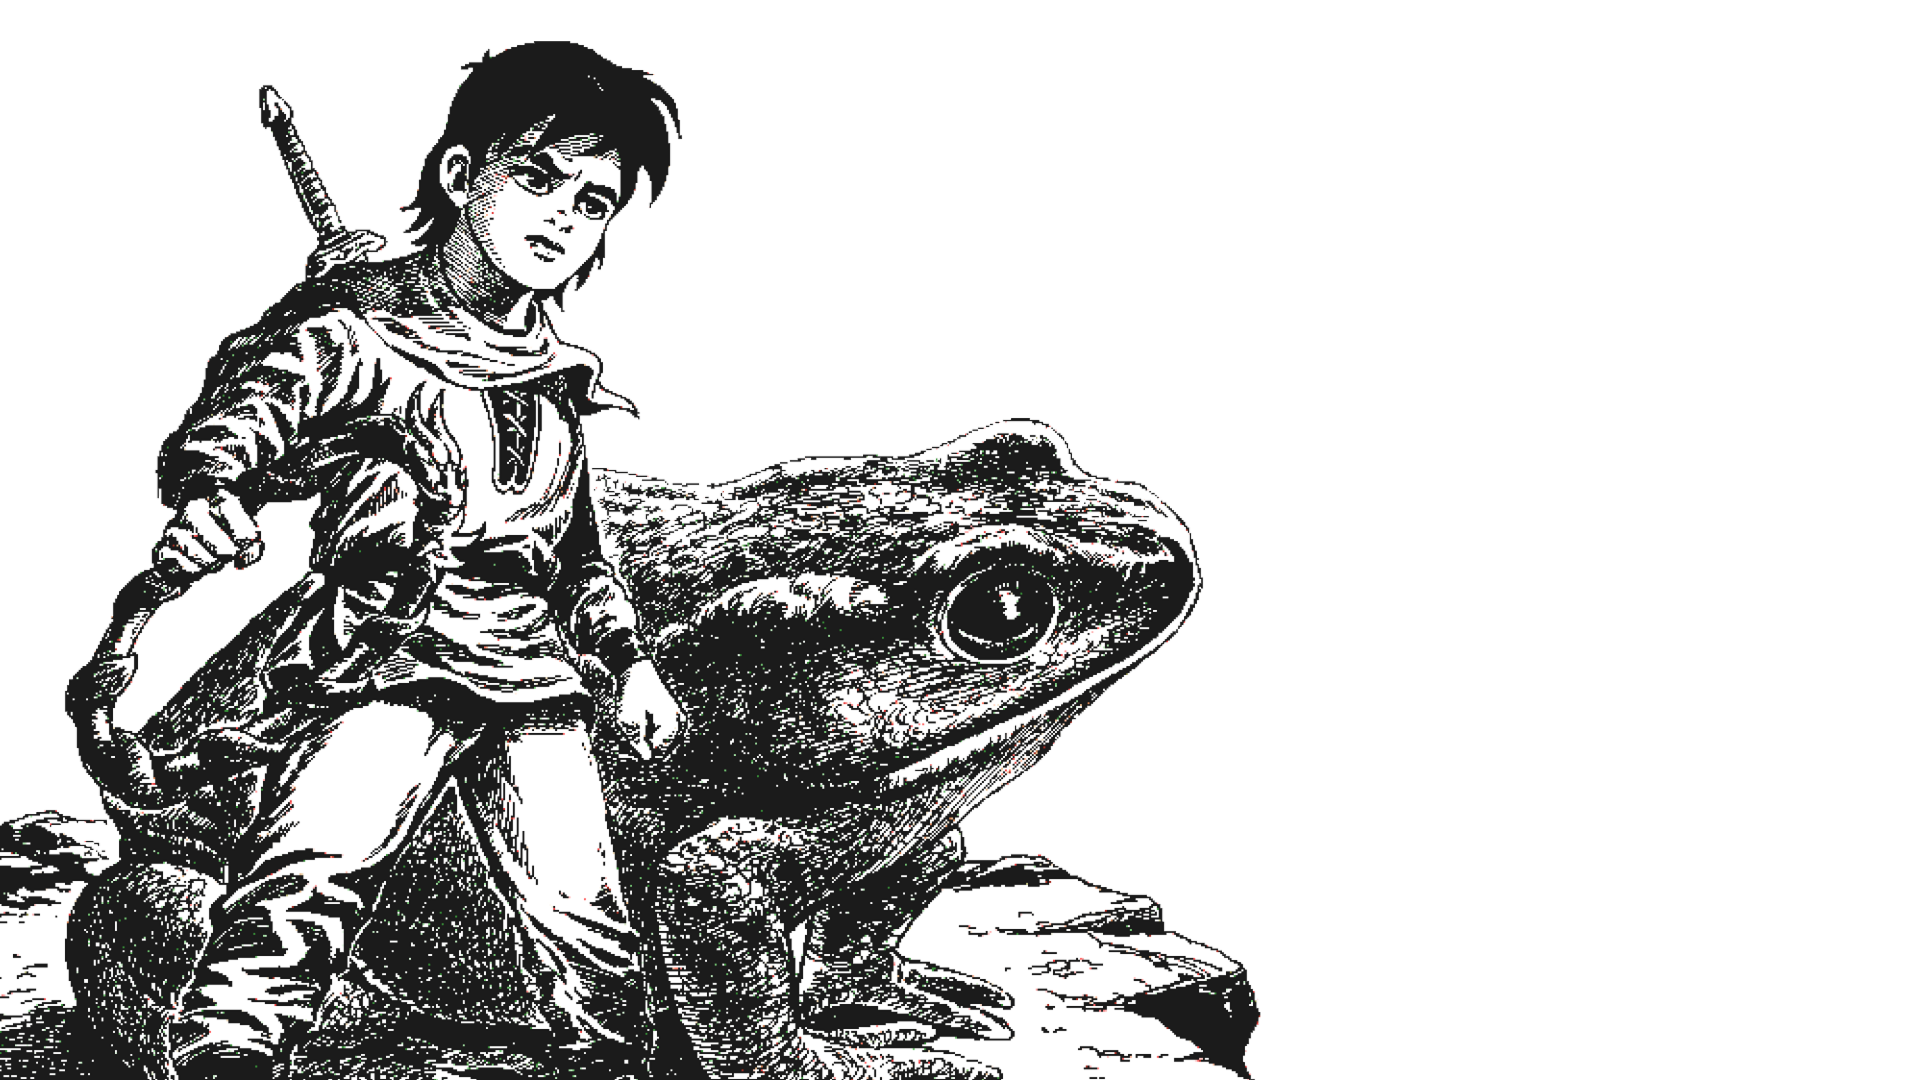
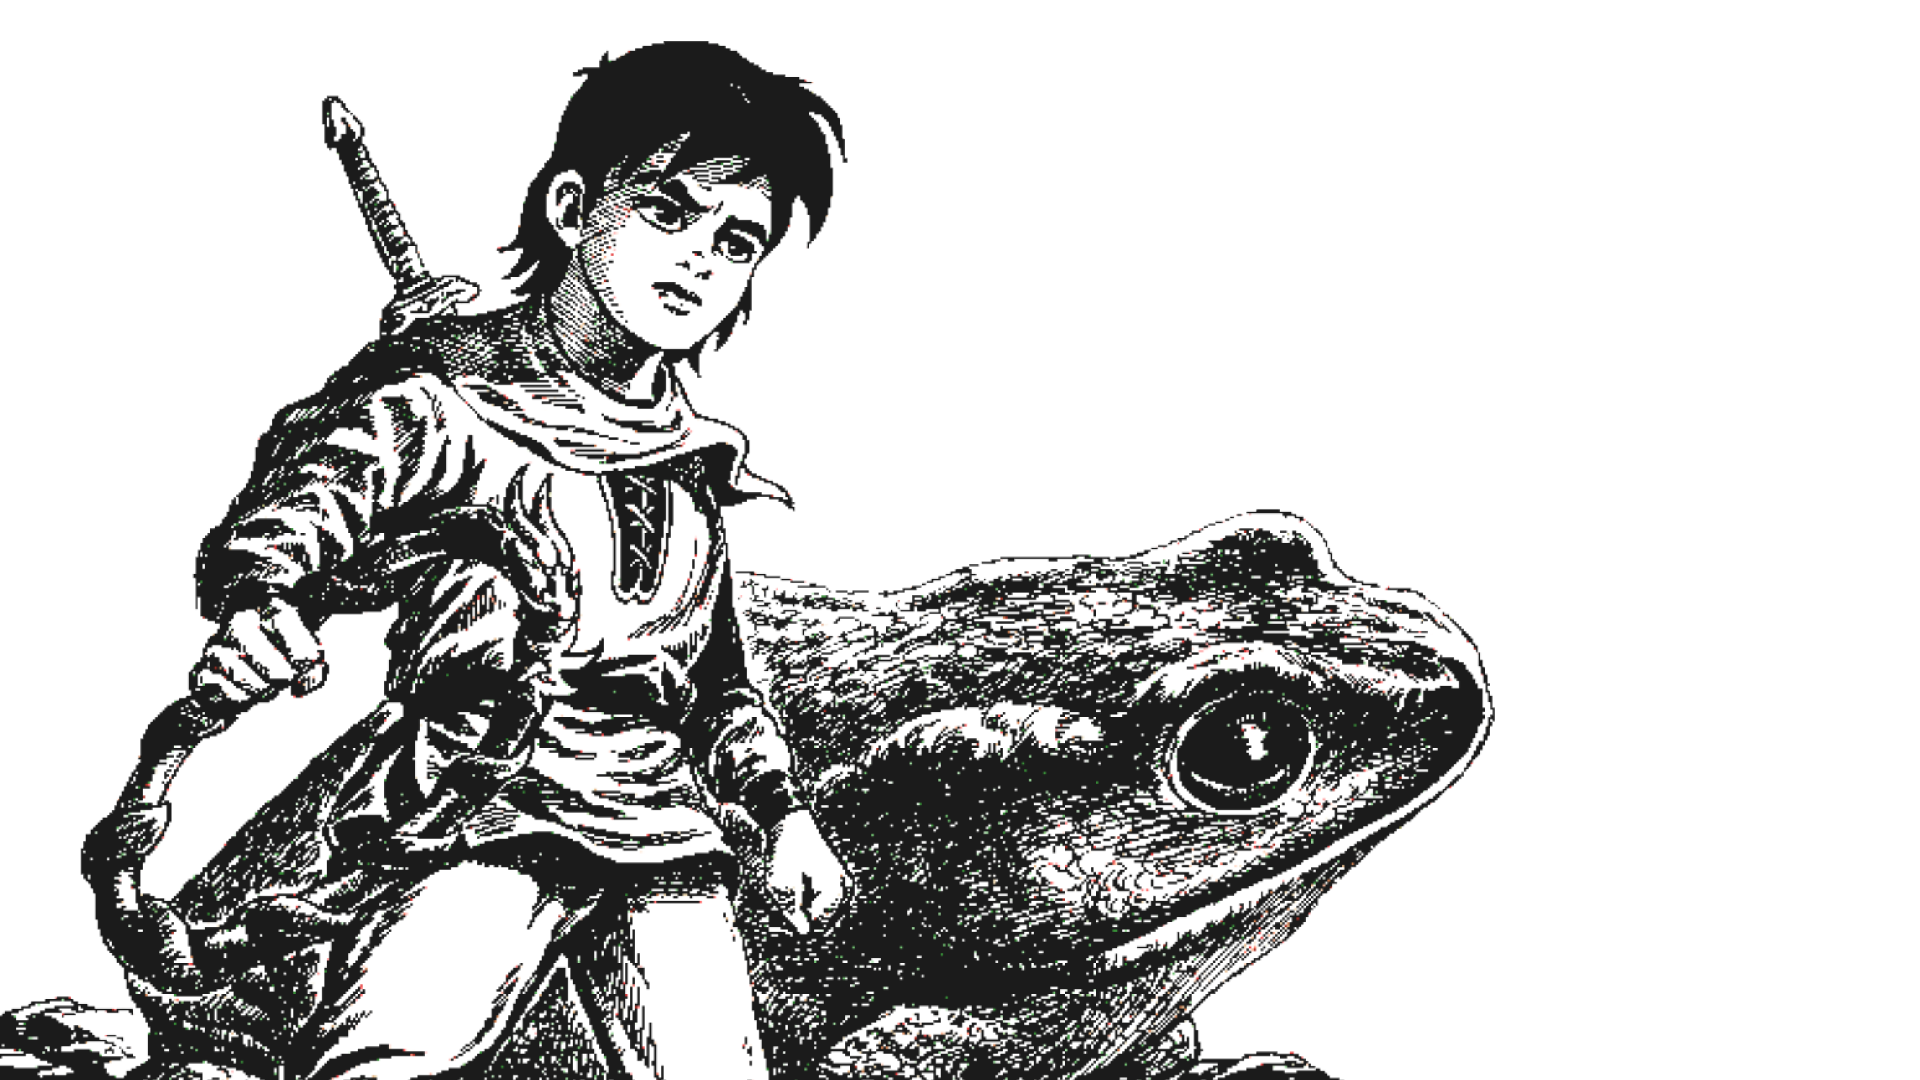
0526

diff --git a/src/App.jsx b/src/App.jsx
@@ -6,6 +6,9 @@ import gsap from 'gsap';
 import './App.css'
 
 const REMOVE_BG=false;
+const DRAW_HAT=true;
+// const IMAGE_COUNT=11;
+// const SWORD_FILE_NAME='sword.png';
 
 function App() {
   
@@ -247,25 +250,26 @@ function App() {
 
 
     // draw hat
-    const hat=refHat.current;
-    
-    const head_center=landmarks[0][0];
-    const head_width=distance(landmarks[0][12], landmarks[0][11]);
-    const head_height=Math.max(1.0/6.0, head_width*1.2);
+    if(DRAW_HAT){
+      const hat=refHat.current;
+      
+      const head_center=landmarks[0][0];
+      const head_width=distance(landmarks[0][12], landmarks[0][11]);
+      const head_height=Math.max(1.0/6.0, head_width*1.2);
 
-    const hat_scale=head_height*canvas.height/hat.height;
-    const hat_width=hat.width*hat_scale;
-    const hat_height=hat.height*hat_scale;
-    
-    ctx.save();
-    ctx.translate(head_center.x*canvas.width, head_center.y*canvas.height);
-    // ctx.rotate(-Math.PI/2);
-    ctx.drawImage(hat, 
-                -hat_width/2, 
-                -hat_height, 
-                hat_width, hat_height);
-    ctx.restore();
-    
+      const hat_scale=head_height*canvas.height/hat.height;
+      const hat_width=hat.width*hat_scale;
+      const hat_height=hat.height*hat_scale;
+      
+      ctx.save();
+      ctx.translate(head_center.x*canvas.width, head_center.y*canvas.height);
+      // ctx.rotate(-Math.PI/2);
+      ctx.drawImage(hat, 
+                  -hat_width/2, 
+                  -hat_height, 
+                  hat_width, hat_height);
+      ctx.restore();
+    }
   }
   function drawCharacter(){
     const canvas = refCanvas.current;
@@ -291,13 +295,15 @@ function App() {
       ctx.fillStyle=`rgba(255,255,255,${pl})`;
       ctx.drawImage(characterLeft, 
           canvas.width/2-characterLeft.width*scaleLeft/2, 
-          canvas.height/2-characterLeft.height*scaleLeft/2, 
+          // canvas.height/2-characterLeft.height*scaleLeft/2, 
+          canvas.height-characterLeft.height*scaleLeft, 
           characterLeft.width*scaleLeft, characterLeft.height*scaleLeft);
       
       ctx.fillStyle=`rgba(255,255,255,${pr})`;
       ctx.drawImage(characterRight, 
           canvas.width/2-characterRight.width*scaleRight/2, 
-          canvas.height/2-characterRight.height*scaleRight/2, 
+          // canvas.height/2-characterRight.height*scaleRight/2, 
+          canvas.height-characterRight.height*scaleRight, 
           characterRight.width*scaleRight, 
           characterRight.height*scaleRight);
     ctx.restore();
@@ -385,10 +391,10 @@ function App() {
 
     // load swords
     const sword1=new Image();
-    sword1.src="/image/sword-1.png";
+    sword1.src="/image/sword-3.png";
     
     const sword2=new Image();
-    sword2.src="/image/sword-2.png";
+    sword2.src="/image/sword.png";
 
     refSwords.current.push(sword1);
     refSwords.current.push(sword2);
@@ -397,12 +403,12 @@ function App() {
     hat.src="/image/hat.png";
     refHat.current=hat;
 
-    for(var i=0;i<2;++i){
+    for(var i=0;i<5;++i){
       const character=new Image();
       character.src=`/image/character/image-${i+1}.png`;
       refCharacterRight.current.push(character);
     }
-    for(var i=2;i<5;++i){
+    for(var i=5;i<10;++i){
       const character=new Image();
       character.src=`/image/character/image-${i+1}.png`;
       refCharacterLeft.current.push(character);
@@ -415,7 +421,7 @@ function App() {
       value: 1, 
       duration: due/1000,
       repeat: -1,
-      ease:"power4.inOut",
+      // ease:"power4.inOut",
       onRepeat: ()=>{
         refLeftIndex.current=(refLeftIndex.current+1)%refCharacterLeft.current.length;        
       }
@@ -425,9 +431,10 @@ function App() {
     },{ 
       value: 1, 
       duration: due/1000,
-      delay: due/2/1000,
+      delay: due/1000/2,
       repeat: -1,
-      ease:"power4.out",
+      // repeatDelay: due/500,
+      // ease:"power4.out",
       onRepeat: ()=>{
         refRightIndex.current=(refRightIndex.current+1)%refCharacterRight.current.length;        
       }

diff --git a/src/scene.jsx b/src/scene.jsx
@@ -60,7 +60,7 @@ const Cube = ({ video, canvas, mask }) => {
         // console.log(video?.videoWidth, video?.videoHeight);
 
         const ratio=video?.videoWidth/video?.videoHeight;
-        if(!isNaN(ratio)) mesh.current.scale.set(1, ratio, 1);
+        // if(!isNaN(ratio)) mesh.current.scale.set(1, ratio, 1);
 
     });
 
